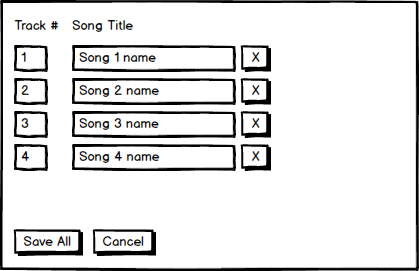
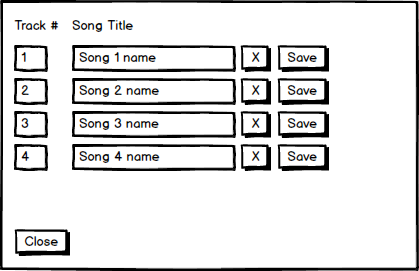
Make Sprint 6 a little more straightforward

Changed region(s): [[0.6516, 0.1476, 0.8067, 0.6494], [0.031, 0.8266, 0.3723, 0.9446]]

diff --git a/docs/code_samples/sprint6_inline_form.js b/docs/code_samples/sprint6_inline_form.js
@@ -1,0 +1,16 @@
+
+// sample html string to use for each song (one-line form)
+html += '<form class="form-inline" id="' + albumId  + '"' +
+        '  <div class="form-group">' +
+        '    <input type="text" class="form-control song-trackNumber" value="' + song.trackNumber + '">' +
+        '  </div>'+
+        '  <div class="form-group">' +
+        '    <input type="text" class="form-control song-name" value="' + song.name + '">' +
+        '  </div>'+
+        '  <div class="form-group">' +
+        '    <button class="btn btn-danger delete-song" data-song-id="' + song._id + '">x</button>' +
+        '  </div>'+
+        '  <div class="form-group">' +
+        '    <button type="submit" class="btn btn-success save-song" data-song-id="' + song._id + '">save</span></button>' +
+        '  </div>'+
+        '</form>';

diff --git a/docs/code_samples/sprint6_modal.html b/docs/code_samples/sprint6_modal.html
@@ -15,7 +15,6 @@
       </div>
       <div class="modal-footer">
         <button type="button" class="btn btn-default" data-dismiss="modal">Close</button>
-        <button type="button" class="btn btn-primary" id='editSongsModalSubmit'>Save changes</button>
       </div>
     </div><!-- /.modal-content -->
   </div><!-- /.modal-dialog -->

diff --git a/docs/sprint6.md b/docs/sprint6.md
@@ -20,7 +20,7 @@ Objectives:
 
 ## Step 1: modalize
 
-1. Add a new modal to the page.  You can build your own OR [use the sample provided](/docs/assets/code_samples/sprint6_modal.html).
+1. Add a new modal to the page.  You can build your own OR [use the sample provided](/docs/code_samples/sprint6_modal.html).
 
 > If you're using the sample, take a look at the unique ids created on the elements.  We'll be using those later on.
 
@@ -36,13 +36,13 @@ Objectives:
 
 ## Step 2: form
 
-1. Develop a form for editing the song list.  It should be able to
-  * delete a song
-  * edit each song
+1. Develop a form for editing the song list.  It should be able to (1) delete a song (2) edit each song. Your form will need to be put into an HTML string (write a function for this).
 
 1. Remember that in order to do a `DELETE /api/albums/:album_id/songs/:id` or a `PUT /api/albums/:album_id/songs/:id` you'll need those `id`s.  Embed them in `data-` attributes in your form.
 
 1. You may want to use a `GET /api/albums/:album_id/songs` index route to get all songs for a particular album.  This is likely easier than retrieving incomplete data from the page.
+
+> A sample HTML string for the form <a href="/docs/code_samples/sprint6_inline_form.js">is provided for you</a>.
 
 ## Step 3
 
@@ -54,20 +54,20 @@ Objectives:
 
 1. Test delete for songs.
 
-1. Ensure that the song list on the page is updated as well.
+1. Ensure that the song list on the page (the main album row that contains this song) is updated as well.
 
-> You can if you want re-draw
+> You may want to re-retrieve the songs rather than trying to parse the current <li> content
 
 
 ## Step 4 Update  
 
-Since we're editing multiple songs at the same time; when we "Save All" we have to `$.ajax({ method: put })` for _EACH_ song.  That's multiple AJAX calls.  In a bigger app we might find another way to do this so we can submit them all in one `PUT`, but for now this is ok.
+Let's allow users to save their edits.
 
-1. After the user clicks 'Save All' (or 'Update All'), make an AJAX `PUT` request for each song.  
-
-1. After the user clicks 'Save All' (or 'Update All') close the modal.
+1. After the user clicks a 'Save' button, make an AJAX `PUT` request for the edited song.  
 
 1. Make sure you test everything.
+
+1. Make sure the modal closes when the close button is clicked.
 
 
 ## Step 5
